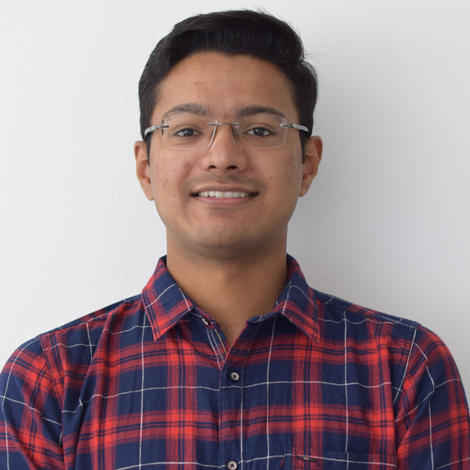
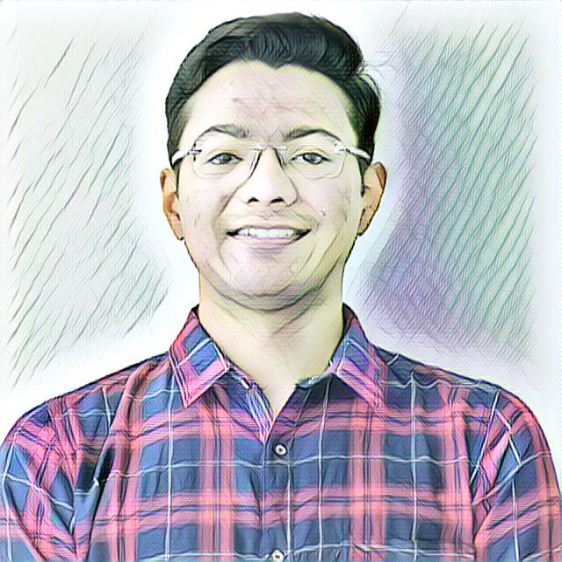
Update team photos

diff --git a/index.html b/index.html
@@ -501,7 +501,7 @@
             <div class="teamy teamy_mask-circle teamy_zoom-photo">
               <div class="teamy__layout">
                 <div class="teamy__preview">
-                  <img src="images/avatars/avery.jpeg" class="teamy__avatar" alt="The demo photo">
+                  <img src="images/avatars/avery.png" class="teamy__avatar" alt="The demo photo">
                 </div>
                 <div class="teamy__back">
                   <div class="teamy__back-inner">
